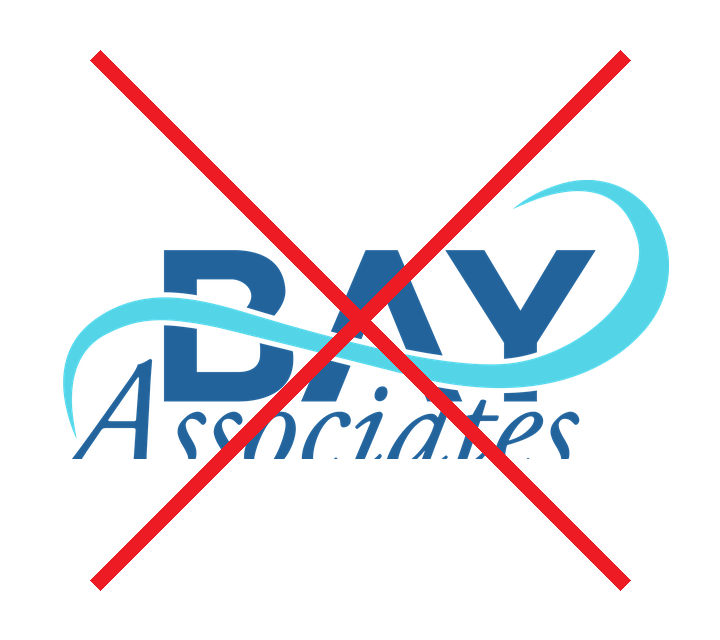
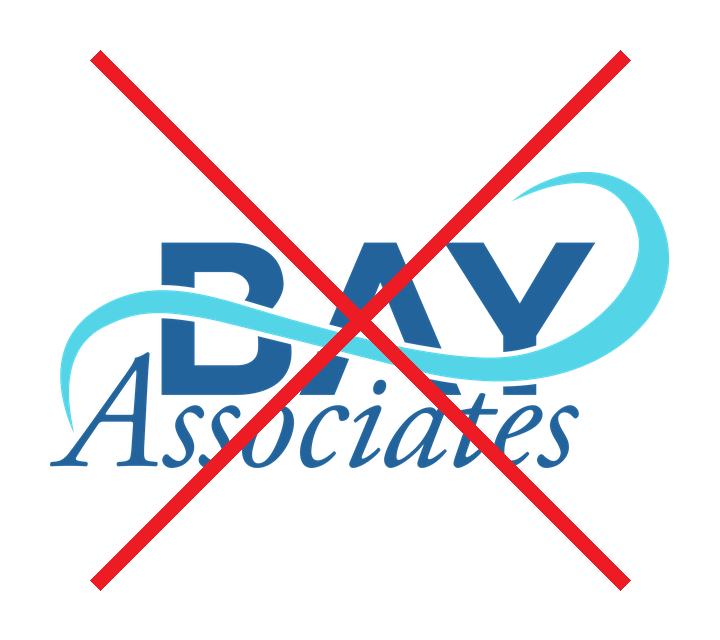
Add Without AIR Tagline don't overrides for ten more OpCos.
Custom tagline don't art for Advanced Thermal, Air Components, Airetech, Bay, BCS, C&J, CG Wood, HD Grant, Jobe, and Jorban Riscoe.

diff --git a/output/advanced-thermal-solutions/index.html b/output/advanced-thermal-solutions/index.html
@@ -435,7 +435,7 @@
       <div class="donts-grid">
                 <div class="dont-item">
           <div class="dont-label">Without AIR Tagline</div>
-          <div class="dont-art-frame"><img class="dont-art" src="assets/donts/01-without-air-tagline.png?v=202606181914" alt=""></div>
+          <div class="dont-art-frame"><img class="dont-art" src="assets/donts/01-without-air-tagline.png?v=202606182122" alt=""></div>
         </div>
 
         <div class="dont-item">

diff --git a/output/air-components/index.html b/output/air-components/index.html
@@ -435,7 +435,7 @@
       <div class="donts-grid">
                 <div class="dont-item">
           <div class="dont-label">Without AIR Tagline</div>
-          <div class="dont-art-frame"><img class="dont-art" src="assets/donts/01-without-air-tagline.png?v=202606181846" alt=""></div>
+          <div class="dont-art-frame"><img class="dont-art" src="assets/donts/01-without-air-tagline.png?v=202606182121" alt=""></div>
         </div>
 
         <div class="dont-item">

diff --git a/output/airetech/index.html b/output/airetech/index.html
@@ -435,7 +435,7 @@
       <div class="donts-grid">
                 <div class="dont-item">
           <div class="dont-label">Without AIR Tagline</div>
-          <div class="dont-art-frame"><img class="dont-art" src="assets/donts/01-without-air-tagline.png?v=202606181916" alt=""></div>
+          <div class="dont-art-frame"><img class="dont-art" src="assets/donts/01-without-air-tagline.png?v=202606182120" alt=""></div>
         </div>
 
         <div class="dont-item">

diff --git a/output/bay-associates/index.html b/output/bay-associates/index.html
@@ -435,7 +435,7 @@
       <div class="donts-grid">
                 <div class="dont-item">
           <div class="dont-label">Without AIR Tagline</div>
-          <div class="dont-art-frame"><img class="dont-art" src="assets/donts/01-without-air-tagline.png?v=202606181916" alt=""></div>
+          <div class="dont-art-frame"><img class="dont-art" src="assets/donts/01-without-air-tagline.png?v=202606182118" alt=""></div>
         </div>
 
         <div class="dont-item">

diff --git a/output/bcs-building-controls-and-services/index.html b/output/bcs-building-controls-and-services/index.html
@@ -435,7 +435,7 @@
       <div class="donts-grid">
                 <div class="dont-item">
           <div class="dont-label">Without AIR Tagline</div>
-          <div class="dont-art-frame"><img class="dont-art" src="assets/donts/01-without-air-tagline.png?v=202606181941" alt=""></div>
+          <div class="dont-art-frame"><img class="dont-art" src="assets/donts/01-without-air-tagline.png?v=202606182119" alt=""></div>
         </div>
 
         <div class="dont-item">

diff --git a/output/c-j-building-solutions/index.html b/output/c-j-building-solutions/index.html
@@ -435,7 +435,7 @@
       <div class="donts-grid">
                 <div class="dont-item">
           <div class="dont-label">Without AIR Tagline</div>
-          <div class="dont-art-frame"><img class="dont-art" src="assets/donts/01-without-air-tagline.png?v=202606181918" alt=""></div>
+          <div class="dont-art-frame"><img class="dont-art" src="assets/donts/01-without-air-tagline.png?v=202606182117" alt=""></div>
         </div>
 
         <div class="dont-item">

diff --git a/output/cg-wood/index.html b/output/cg-wood/index.html
@@ -435,7 +435,7 @@
       <div class="donts-grid">
                 <div class="dont-item">
           <div class="dont-label">Without AIR Tagline</div>
-          <div class="dont-art-frame"><img class="dont-art" src="assets/donts/01-without-air-tagline.png?v=202606181945" alt=""></div>
+          <div class="dont-art-frame"><img class="dont-art" src="assets/donts/01-without-air-tagline.png?v=202606182116" alt=""></div>
         </div>
 
         <div class="dont-item">

diff --git a/output/hd-grant-co/index.html b/output/hd-grant-co/index.html
@@ -435,7 +435,7 @@
       <div class="donts-grid">
                 <div class="dont-item">
           <div class="dont-label">Without AIR Tagline</div>
-          <div class="dont-art-frame"><img class="dont-art" src="assets/donts/01-without-air-tagline.png?v=202606182019" alt=""></div>
+          <div class="dont-art-frame"><img class="dont-art" src="assets/donts/01-without-air-tagline.png?v=202606182115" alt=""></div>
         </div>
 
         <div class="dont-item">

diff --git a/output/jobe-industrial-control-measurement/index.html b/output/jobe-industrial-control-measurement/index.html
@@ -435,7 +435,7 @@
       <div class="donts-grid">
                 <div class="dont-item">
           <div class="dont-label">Without AIR Tagline</div>
-          <div class="dont-art-frame"><img class="dont-art" src="assets/donts/01-without-air-tagline.png?v=202606181846" alt=""></div>
+          <div class="dont-art-frame"><img class="dont-art" src="assets/donts/01-without-air-tagline.png?v=202606182112" alt=""></div>
         </div>
 
         <div class="dont-item">

diff --git a/output/jorban-riscoe/index.html b/output/jorban-riscoe/index.html
@@ -435,7 +435,7 @@
       <div class="donts-grid">
                 <div class="dont-item">
           <div class="dont-label">Without AIR Tagline</div>
-          <div class="dont-art-frame"><img class="dont-art" src="assets/donts/01-without-air-tagline.png?v=202606181846" alt=""></div>
+          <div class="dont-art-frame"><img class="dont-art" src="assets/donts/01-without-air-tagline.png?v=202606182113" alt=""></div>
         </div>
 
         <div class="dont-item">
